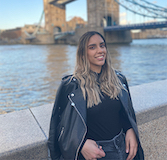
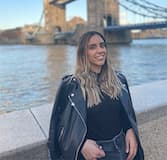
Fix button links, update profile photos and remove extras

diff --git a/src/pages/AboutPage.tsx b/src/pages/AboutPage.tsx
@@ -1,14 +1,16 @@
 import React from 'react';
-import { Row, Col, Space } from 'antd';
+import { Row, Col, Space, Button } from 'antd';
 import styles from '../styles/AboutPage.module.less';
-import testPrpfile from '../assets/logo192.png';
 import { ReactComponent as Distance } from '../assets/social_distancing.svg';
 import { UserProfile } from '../components/userProfile';
 import { MemberProfile } from '../components/teamMember';
-import { ianProfile, gianlucaProfile, cameliaProfile, rachaelProfile } from '../assets/assets.index';
+import { ianProfile, gianlucaProfile, cameliaProfile, rachaelProfile, svetlanaProfile, linaProfile, kellyProfile } from '../assets/assets.index';
+import { useHistory } from 'react-router-dom';
+import { ExternalRoutes } from '../routes';
 interface Props {}
 
 export const AboutPage: React.FC<Props> = () => {
+  let history = useHistory();
   return (
     <div>
       <Row>
@@ -19,10 +21,10 @@ export const AboutPage: React.FC<Props> = () => {
       <Row>
         <Col span={24}>
           <body className={styles.SubTitleContent}>
-            With COVID-19 causing a global pandemic, fear and panic increased, but so did the direct racist and discriminatory sentiment targeted towards the Chinese race, culture,
-            and country, also known as Sinophobia. Unfortunately, this emergence of racist sentiment is not a new feature in society, but with the current global health crisis,
-            articles, interactions, and overall rhetoric has proved to be inherently targeted towards the Chinese race. It is critical to understand how situations of mass hysteria
-            and global crises can increase not just Sinophobic, but xenophobic sentiment.
+            Project CRANE is monitoring real-time racist rhetoric on Twitter. There is evidence that online hate speech predicts hate crime and human rights groups have argued that
+            exposure to online hate speech normalises such hatred for majority groups. We are hoping that tracking the changes in online sinophobic and racist rhetoric resulting
+            from the progress of the COVID-19 pandemic allows for hard exposure to those uninformed, as well as turn into a tool for change within victims and supporting
+            organizations.
           </body>
         </Col>
       </Row>
@@ -32,7 +34,7 @@ export const AboutPage: React.FC<Props> = () => {
             <h2 className={styles.SubTitle}>What is Sinophobia?</h2>
           </Space>
           <body className={styles.Content}>
-            In 2013, Pew Research Center from the United States conducted a survey over Sinophobia, finding that China was viewed favorably in just half (19 of 38) of the nations
+            In 2013, Pew Research Center from the United States conducted a survey over sinophobia, finding that China was viewed favorably in just half (19 of 38) of the nations
             surveyed, excluding China itself. Sinophobia is defined as the consistent hostility toward people of Chinese origin or toward Chinese culture, people, history, or
             government. It is also said to include the fear or dislike of Chinese-made goods.
           </body>
@@ -45,10 +47,10 @@ export const AboutPage: React.FC<Props> = () => {
         <Col span={24}>
           <h2 className={styles.SubTitle}>Sinophobia to Racism to Present Stage:</h2>
           <body>
-            Sinophobia and anti-Asian speech have always been actively present, as well as other racist speech within social media. The COVID-19 not only exposed this hate but
+            Sinophobia and anti-Asian speech have always been actively present, as well as other racist speech within social media. The COVID-19 not only exposed this hate, but
             allowed many of us to witness it as we are more than ever stuck in our phones. And more than ever, these racist attackers are on their phones as well spreading their
             words. Racist rhetoric affects everyone, from the “normalization” of racist slurs to the immense and disproportionate death rate in black and brown communities. Racism
-            is causing more lives to be lost in this pandemic from hate crimes-we must expose this data and urge for change. Here’s how you can help:
+            is causing more lives in this pandemic, we must expose this data, and urge for change.
           </body>
         </Col>
       </Row>
@@ -63,6 +65,7 @@ export const AboutPage: React.FC<Props> = () => {
           name="Gianluca Stringhini"
           bio="Assistant Professor in the Department of Electrical and Computer Engineering at Boston University, co-directing the Security Lab (SeclaBU)"
           linkText="SEC Lab"
+          link="https://seclab.bu.edu/people/gianluca/"
         />
         <body className={styles.AboutProfileInfo}>
           <div> "In my research I apply a data-driven approach to better understand malicious activity on the Internet. </div>
@@ -86,58 +89,64 @@ export const AboutPage: React.FC<Props> = () => {
           <h1 className={styles.MidTitle}>Team</h1>
         </Col>
       </Row>
-      <Row>
-        <Col span={24}>
-          <body className={styles.SubTitleContent}>
-            LasProin consectetur tempus lectus, sit amet fermentum ante tempor ut. Ut ullamcorper nunc tellus, non auctor ligula commodo sed. Curabitur elit diam, consequat at
-            pretium ut, aliquam eget lorem. Nam eget ligula ac tellus cursus elementum eget id magna.
-          </body>
+      <Row justify="center">
+        <Col span={24} className={styles.TeamContentSection}>
+          <div>
+            <body className={styles.SubTitleContent}>
+              Our team came together through the Resiliency Challenge Hackathon, in which students around the world came together for a nine-week, virtual hackathon, with
+              three-week sprint challenges aimed at catalyzing student innovation in response to the unprecedented situation facing colleges and communities in the wake of the
+              coronavirus pandemic.
+            </body>
+            <br />
+            <body className={styles.SubTitleContent}>To learn more about our team and the hackathon, check out our Devpost page!</body>
+            <Button className={styles.DevpostButton} onClick={() => history.push(ExternalRoutes.DEVPOST)}>
+              Devpost Page
+            </Button>
+          </div>
         </Col>
       </Row>
-      <div style={{ padding: '45px', margin: '0 auto' }} />
+      <div style={{ padding: '2rem', margin: '0 auto' }} />
       <div style={{ margin: '0 auto', textAlign: 'center' }}>
         <Row gutter={[25, 25]}>
-          <Col flex={1.66} className={styles.TeamProfileRow}>
+          <Col flex={1.66} className={styles.TeamProfileRow} order={randProfileOrder()}>
             <MemberProfile name="Ian Saucy" position="Tech" bio="Ian still needs to write his bio.." photo={ianProfile} />
           </Col>
-          <Col flex={1.66} className={styles.TeamProfileRow}>
-            <MemberProfile name="Camelia B" position="UI/UX" bio="This is a bio a longerlongerlonger bio you say yes this is a longer bioooooooooo" photo={cameliaProfile} />
+          <Col flex={1.66} className={styles.TeamProfileRow} order={randProfileOrder()}>
+            <MemberProfile name="Camelia B" position="UI/UX" bio="Worked on UX Research, Branding and Logo Design, Content Copy" photo={cameliaProfile} />
           </Col>
-          <Col flex={1.66} className={styles.TeamProfileRow}>
-            <MemberProfile
-              name="Rachael Dier"
-              position="UX Researcher/Designer & Content Strategist"
-              bio="This is a bio a longer bio you say yes this is a longer bioooooooooo"
-              photo={rachaelProfile}
-            />
+          <Col flex={1.66} className={styles.TeamProfileRow} order={randProfileOrder()}>
+            <MemberProfile name="Rachael Dier" position="UX Researcher/Designer" bio="I worked on and oversaw UX/UI research and design" photo={rachaelProfile} />
           </Col>
 
-          <Col flex={1.66} className={styles.TeamProfileRow}>
+          <Col flex={1.66} className={styles.TeamProfileRow} order={randProfileOrder()}>
             <MemberProfile
               name="Svetlana M"
               position="UI/UX"
               bio="Passionate about learning and teaching, UX UI designer, linguist, copywriter and translator"
-              photo={testPrpfile}
+              photo={svetlanaProfile}
             />
           </Col>
-          <Col flex={1.66} className={styles.TeamProfileRow}>
-            <MemberProfile name="Ian Saucy" position="Tech Dude" bio="This is a bio a longersay yes this is a longer bioooooooooo" photo={testPrpfile} />
-          </Col>
-          <Col flex={1.66} className={styles.TeamProfileRow}>
-            <MemberProfile name="Ian Saucy" position="Tech Dude" bio="This is a bio a longer bio you say yes this is a longer bioooooooooo" photo={testPrpfile} />
+          <Col flex={1.66} className={styles.TeamProfileRow} order={randProfileOrder()}>
+            <MemberProfile name="Lina Hayek" position="Design Consultant" bio="Design & Communication Strategy" photo={linaProfile} />
           </Col>
 
-          <Col flex={1.66} className={styles.TeamProfileRow}>
-            <MemberProfile name="Ian Saucy" position="Tech Dude" bio="This is a bio a longer bio you say yes this is a longer bioooooooooo" photo={testPrpfile} />
-          </Col>
-          <Col flex={1.66} className={styles.TeamProfileRow}>
-            <MemberProfile name="Ian Saucy" position="Tech Dude" bio="This is a bio a longer bi this is a longer bioooooooooo" photo={testPrpfile} />
-          </Col>
-          <Col flex={1.66} className={styles.TeamProfileRow}>
-            <MemberProfile name="Ian Saucy" position="Tech Dude" bio="This is a bio a longer bio you say yes this is a longer bioooooooooo" photo={testPrpfile} />
+          <Col flex={1.66} className={styles.TeamProfileRow} order={randProfileOrder()}>
+            <MemberProfile
+              name="Kelly Ly"
+              position="Undergraduate Programmer & Researcher"
+              bio="I worked on data collection, data analysis, website styling, and video editing"
+              photo={kellyProfile}
+            />
           </Col>
         </Row>
       </div>
     </div>
   );
 };
+/**
+ * A silly function to randomly order the profiles. Returns a random int that is used
+ * by the columns to choose their order
+ */
+function randProfileOrder(): number {
+  return Math.floor(Math.random() * Math.floor(25));
+}

diff --git a/src/pages/DataPage.tsx b/src/pages/DataPage.tsx
@@ -13,10 +13,7 @@ export const DataPage: React.FC<Props> = () => {
   return (
     <>
       <h1>Frequency of Sinophobic Slurs on Twitter</h1>
-      <body>
-        Project CRANE is monitoring real-time racist rhetoric on Twitter. There is evidence that online hate speech predicts hate crime and human rights groups have argued that
-        exposure to online hate speech normalises such hatred for majority groups.
-      </body>
+      <body>Project CRANE computes the daily and weekly frequencies of several known sinophobic slurs in a dataset representative of real-time Twitter data.</body>
       <Row gutter={[65, 65]} className={styles.FreqRow}>
         <Col>
           <GraphPreview
@@ -100,8 +97,8 @@ export const DataPage: React.FC<Props> = () => {
       </Row>
       <h1> Topics Linked to Specific Key Words </h1>
       <body>
-        Project CRANE is monitoring real-time racist rhetoric on Twitter. There is evidence that online hate speech predicts hate crime and human rights groups have argued that
-        exposure to online hate speech normalises such hatred for majority groups.
+        Project CRANE uses a word embedding algorithm to identify the words linked to a given keyword, for a given period of time. It reproduces this analysis for several keywords
+        (related to China, Covid19, and otherness) and for each month from Nov 2019 to Dec 2020.
       </body>
       <Row gutter={[65, 65]} className={styles.FreqRow}>
         <Col>

diff --git a/src/assets/assets.index.ts b/src/assets/assets.index.ts
@@ -1,12 +1,13 @@
-import React from 'react';
-
 /**
  * Profile Photos
  */
 export { default as rachaelProfile } from './profilePhotos/rachael_profile.jpg';
 export { default as cameliaProfile } from './profilePhotos/camelia_profile.jpg';
 export { default as ianProfile } from './profilePhotos/ian_profile.jpg';
-export { default as gianlucaProfile } from './profilePhotos/gianluca_profile.png';
+export { default as svetlanaProfile } from './profilePhotos/svetlana_profile.jpg';
+export { default as linaProfile } from './profilePhotos/lina_profile.jpg';
+export { default as kellyProfile } from './profilePhotos/kelly_profile.jpg';
+export { default as gianlucaProfile } from './profilePhotos/gianluca_profile.jpg';
 
 /**
  * Social Icons

diff --git a/src/components/NavHeader.tsx b/src/components/NavHeader.tsx
@@ -1,7 +1,7 @@
 import React, { useState, useEffect } from 'react';
 import { Layout, Menu, Row, Col } from 'antd';
 import styles from '../styles/NavHeader.module.less';
-import { useHistory, useRouteMatch, useLocation, Route } from 'react-router-dom';
+import { useHistory, useLocation } from 'react-router-dom';
 import { Routes } from '../routes';
 import { ReactComponent as Logo } from '../assets/LOGO.svg';
 interface Props {}
@@ -37,7 +37,7 @@ export const Header: React.FC<Props> = () => {
     } else if (location.pathname === Routes.PARTNERS.path) {
       setSelected([`${Routes.PARTNERS.key}`]);
     }
-  }, []);
+  }, [location.pathname]);
   return (
     <Layout.Header className={styles.MenuHeader}>
       <Row align="top">

diff --git a/src/pages/HomePage.tsx b/src/pages/HomePage.tsx
@@ -1,7 +1,6 @@
 import React from 'react';
 import { Row, Col, Layout, Button } from 'antd';
 import styles from '../styles/HomePage.module.less';
-import { TwitterCircleFilled, LinkedinFilled, MailFilled } from '@ant-design/icons';
 import { useHistory } from 'react-router-dom';
 import { Routes, ExternalRoutes } from '../routes';
 import { CircleEmail, DevPost, Github } from '../assets/assets.index';

diff --git a/src/pages/PartnersPage.tsx b/src/pages/PartnersPage.tsx
@@ -1,8 +1,7 @@
 import React from 'react';
 import { Row, Col, Layout, Button } from 'antd';
 import styles from '../styles/PartnersPage.module.less';
-import { useHistory } from 'react-router-dom';
-import { Routes } from '../routes';
+
 interface Props {}
 
 export const PartnersPage: React.FC<Props> = () => {

diff --git a/src/charts/lineChart.tsx b/src/charts/lineChart.tsx
@@ -1,6 +1,4 @@
 import { ResponsiveLine, Serie } from '@nivo/line';
-import { BasicTooltip } from '@nivo/tooltip';
-import PropTypes from 'prop-types';
 import React from 'react';
 // make sure parent container have a defined height when using
 // responsive component, otherwise height will be 0 and

diff --git a/src/components/Footer.tsx b/src/components/Footer.tsx
@@ -1,5 +1,5 @@
 import React from 'react';
-import { Layout, Row, Col } from 'antd';
+import { Row, Col } from 'antd';
 import styles from '../styles/Footer.module.less';
 import { CircleEmail, DevPost, Github } from '../assets/assets.index';
 import { useHistory } from 'react-router-dom';

diff --git a/src/styles/AboutPage.module.less b/src/styles/AboutPage.module.less
@@ -56,3 +56,15 @@
     margin: 0 auto;
     display: table;
 }
+
+.TeamContentSection {
+    text-align: center;
+}
+
+.DevpostButton {
+    .ActionButton();
+    margin: 2rem;
+    width: 13rem;
+    text-align: center;
+    vertical-align: middle;
+}

diff --git a/src/styles/teamMember.module.less b/src/styles/teamMember.module.less
@@ -52,6 +52,8 @@
     font-weight: normal;
     font-size: 1.1rem;
     text-align: center;
+    padding-left: 0.2rem;
+    padding-right: 0.2rem;
 }
 
 .Bio {
